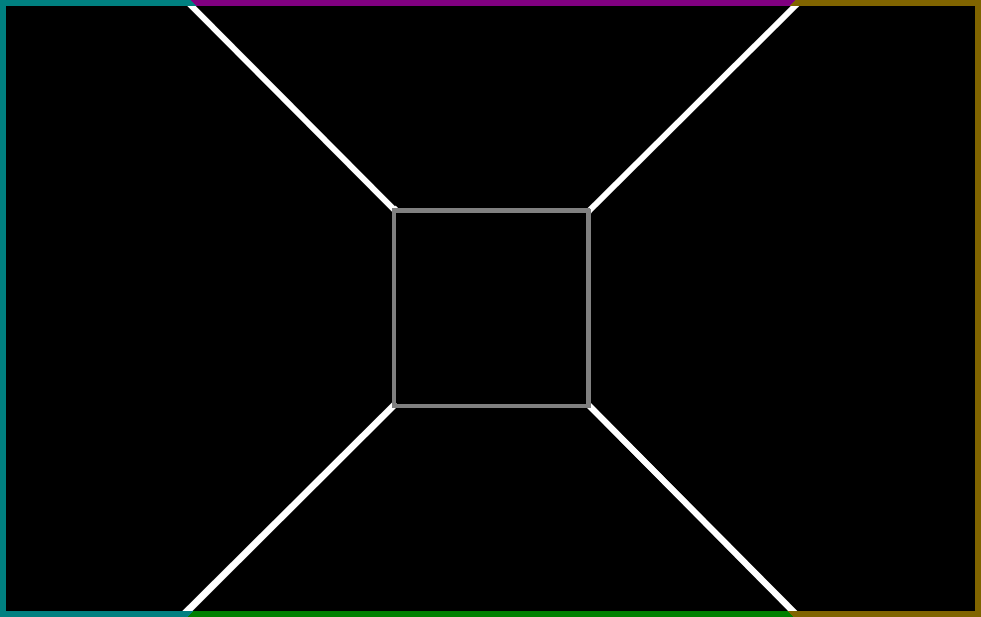
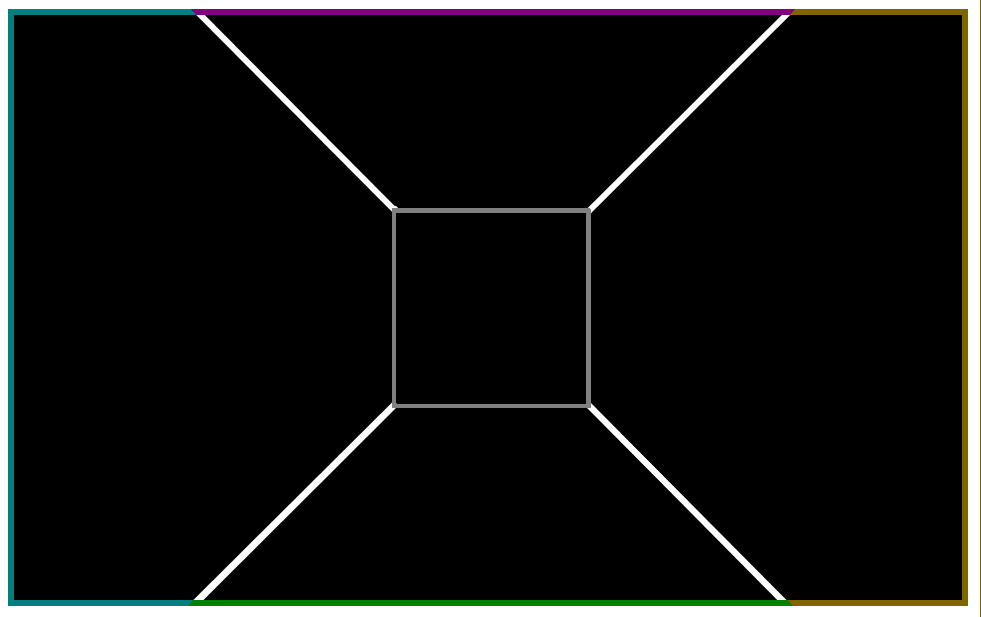
Goal and Game Mode Setup graphics tweaks

Changed region(s): [[0.0, 0.0, 1.0, 1.0]]

diff --git a/src/org/ssg/Cambridge/GameplayState.java b/src/org/ssg/Cambridge/GameplayState.java
@@ -659,31 +659,31 @@ public class GameplayState extends BasicGameState implements KeyListener {
 	public void initGoals(int randomNum){
 		if(GOALTYPE == 0){//Left and Right goals
 			goals = new Goal[2];
-			goals[0] = new Goal(0,FIELDHEIGHT/2-GOALSIZE/2, -25, GOALSIZE, -1 , 0, 0, teamColors[0]);
-			goals[1] = new Goal(FIELDWIDTH, FIELDHEIGHT/2-GOALSIZE/2, 25, GOALSIZE, 1, 0, 1, teamColors[1]);
+			goals[0] = new Goal(-4,FIELDHEIGHT/2-GOALSIZE/2, -25, GOALSIZE, -1 , 0, 0, teamColors[0].darker());
+			goals[1] = new Goal(FIELDWIDTH+5, FIELDHEIGHT/2-GOALSIZE/2, 25, GOALSIZE, 1, 0, 1, teamColors[1].darker());
 		}else if(GOALTYPE == -1){//One sided goals. Squash
 			goals = new Goal[1];
-			goals[0] = new Goal(0, 0, -25, FIELDHEIGHT, -1, 0, randomNum, teamColors[randomNum]);
+			goals[0] = new Goal(0, 0, -25, FIELDHEIGHT, -1, 0, randomNum, teamColors[randomNum].darker());
 		}else if(GOALTYPE == 1){//Horizontal Squash Goals
 			goals = new Goal[1];
-			goals[0] = new Goal(0, FIELDHEIGHT, FIELDWIDTH, -25, 0, 1, randomNum, teamColors[randomNum]);
+			goals[0] = new Goal(0, FIELDHEIGHT, FIELDWIDTH, -25, 0, 1, randomNum, teamColors[randomNum].darker());
 		}else if(GOALTYPE == 2){//FOURSQUARE STYLE GOALS
 			goals = new Goal[8];
-			goals[0] = new Goal(0,0,FIELDWIDTH/2,-25,0,-1,0, teamColors[0]);
-			goals[1] = new Goal(0,0,-25,FIELDHEIGHT/2,-1,0,0, teamColors[0]);
+			goals[0] = new Goal(0,-4,FIELDWIDTH/2,-25,0,-1,0, teamColors[0].darker());
+			goals[1] = new Goal(-4,0,-25,FIELDHEIGHT/2,-1,0,0, teamColors[0].darker());
 			
-			goals[2] = new Goal(FIELDWIDTH/2,0,FIELDWIDTH/2,-25,0,-1,2, teamColors[2]);
-			goals[3] = new Goal(FIELDWIDTH,0,25,FIELDHEIGHT/2,1,0,2, teamColors[2]);
+			goals[2] = new Goal(FIELDWIDTH/2,-4,FIELDWIDTH/2,-25,0,-1,2, teamColors[2].darker());
+			goals[3] = new Goal(FIELDWIDTH+5,0,25,FIELDHEIGHT/2,1,0,2, teamColors[2].darker());
 			
-			goals[4] = new Goal(FIELDWIDTH,FIELDHEIGHT/2,25,FIELDHEIGHT/2,1,0,1, teamColors[1]);
-			goals[5] = new Goal(FIELDWIDTH/2,FIELDHEIGHT,FIELDWIDTH/2,25,0,1,1, teamColors[1]);
+			goals[4] = new Goal(FIELDWIDTH+5,FIELDHEIGHT/2,25,FIELDHEIGHT/2,1,0,1, teamColors[1].darker());
+			goals[5] = new Goal(FIELDWIDTH/2,FIELDHEIGHT+5,FIELDWIDTH/2,25,0,1,1, teamColors[1].darker());
 			
-			goals[6] = new Goal(0,FIELDHEIGHT/2,-25,FIELDHEIGHT/2,-1,0,3, teamColors[3]);
-			goals[7] = new Goal(0,FIELDHEIGHT,FIELDWIDTH/2,25,0,1,3, teamColors[3]);
+			goals[6] = new Goal(-4,FIELDHEIGHT/2,-25,FIELDHEIGHT/2,-1,0,3, teamColors[3].darker());
+			goals[7] = new Goal(0,FIELDHEIGHT+5,FIELDWIDTH/2,25,0,1,3, teamColors[3].darker());
 			
 		}else if(GOALTYPE == 7){//crazyking/goldengoal style goals
 			goals = new Goal[1];
-			goals[0] =  new Goal(FIELDWIDTH/2-GOALSIZE/2, FIELDHEIGHT, GOALSIZE, 25, 0, 1, 0, Color.white);
+			goals[0] =  new Goal(FIELDWIDTH/2-GOALSIZE/2, FIELDHEIGHT+5, GOALSIZE, 25, 0, 1, 0, Color.yellow.darker(.3f));
 			arrowTheta = (float)Math.atan2(goals[0].getMinY()/2f+goals[0].getMaxY()/2f-FIELDHEIGHT/2f, goals[0].getMinX()/2f+goals[0].getMaxX()/2f-FIELDWIDTH/2f)*180f/(float)Math.PI;
 			arrowThetaTarget = arrowTheta;
 		}
@@ -823,7 +823,7 @@ public class GameplayState extends BasicGameState implements KeyListener {
 		
 		//Draw goals
 		for(Goal goal: goals){
-			g.setColor(goal.getColor().darker());
+			g.setColor(goal.getColor());
 			g.fillRect(goal.getX(), goal.getMinY(), goal.getWidth(), goal.getHeight());
 		}
 		//g.fillRect(FIELDWIDTH-10, FIELDHEIGHT/2-GOALWIDTH/2, 15, GOALWIDTH);
@@ -1392,22 +1392,22 @@ public class GameplayState extends BasicGameState implements KeyListener {
 						tempf = (float)Math.random();
 						tempArr[0] = Math.max(GOALSIZE, FIELDHEIGHT*(float)Math.random()*.6f);
 						goals[0].reinit(
-								tempf>.5f? 0: FIELDWIDTH,
+								tempf>.5f? -4: FIELDWIDTH+5,
 								(int)((FIELDHEIGHT-tempArr[0])*Math.random()),
 								tempf>.5f? -25: 25,
 								(int)tempArr[0],
 								tempf>.5f?-1:1, 0,
-								0, Color.gray);
+								0, goals[0].getColor());
 					}else{//horz goal
 						tempf = (float)Math.random();
 						tempArr[0] = Math.max(GOALSIZE, FIELDWIDTH*(float)Math.random()*.6f);
 						goals[0].reinit(
 								(int)((FIELDWIDTH-tempArr[0])*Math.random()),
-								tempf>.5? 0: FIELDHEIGHT,
+								tempf>.5? -4: FIELDHEIGHT+5,
 								(int)tempArr[0],
 								tempf>.5f? -25:25,
 								0, tempf>.5f?-1:1,
-								0, Color.gray);
+								0, goals[0].getColor());
 					}
 				}
 				
